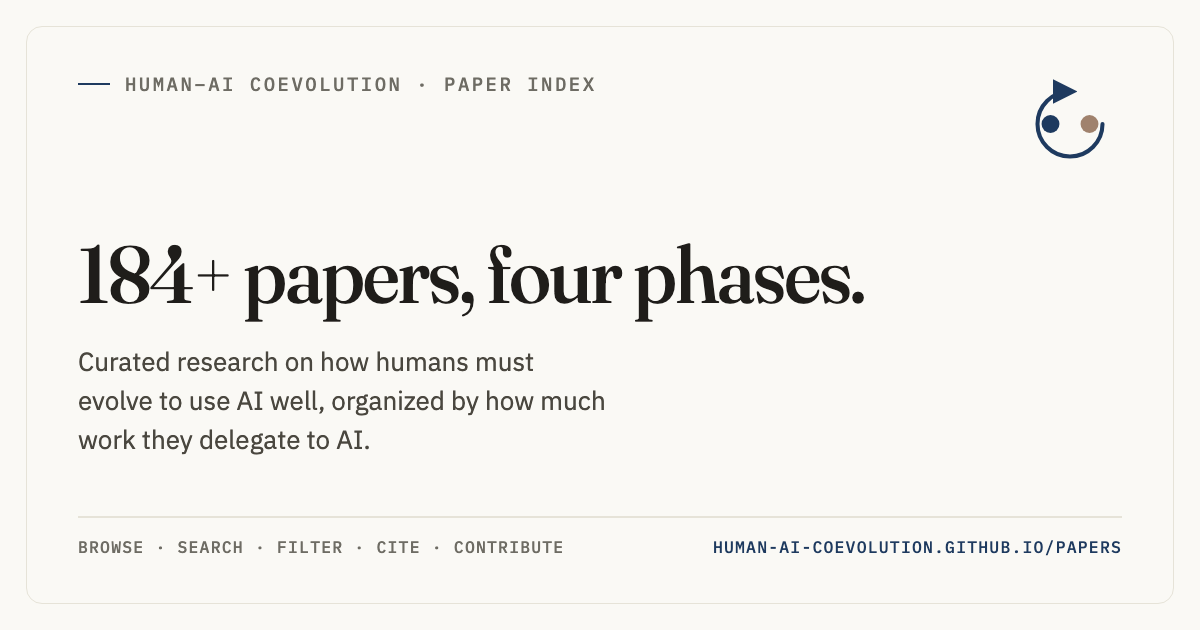
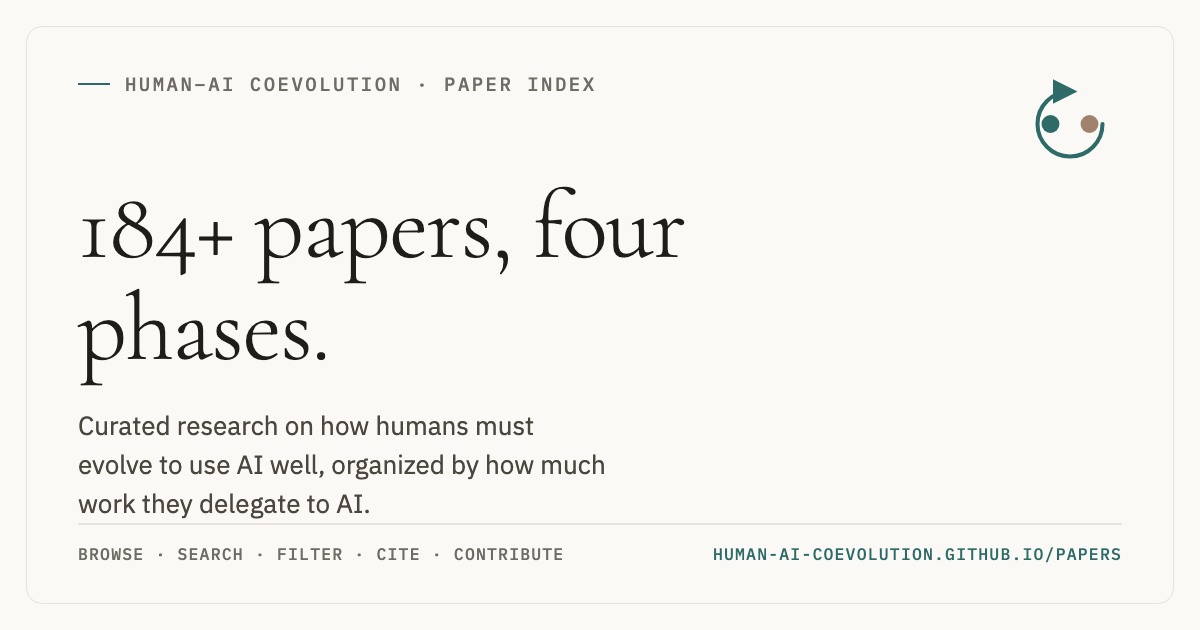
Restyle: desaturated teal accent + Cormorant Garamond display serif
Refreshes the visual identity toward an airier editorial style
(à la zaraintokyo.com) and ties it to the CHATS lab.

- Accent: deep navy → a desaturated teal (#2e6b68 / #76bdb6 dark)
  drawn from the CHATS lab logo. Single accent, applied site-wide
  via the `accent` token — links, eyebrows, badges, favicon, the
  Stats charts (phase palette, treemap progression, donuts).
- Display serif: Fraunces → Cormorant Garamond, a delicate
  high-contrast face set light at large sizes. Display tiers
  rescaled (Cormorant runs small) with near-zero tracking and
  lining numerals.
- Footer: added an "Affiliated lab" credit with the CHATS logo
  linking to the group page.
- Hero: "v1 · 2026" → "2026 edition" (a serif "v1" reads as "VI").
- Regenerated og.png / og-papers.png in the new teal + serif style.

Changed region(s): [[0.0617, 0.3016, 0.74, 0.754], [0.0617, 0.7841, 0.925, 0.9048], [0.8633, 0.1206, 0.925, 0.2714]]

diff --git a/site/src/islands/StatsCharts.tsx b/site/src/islands/StatsCharts.tsx
@@ -22,14 +22,14 @@ function paperColors() {
         text: '#e9e6df',
         muted: '#9a978d',
         faint: 'rgba(255,255,255,0.04)',
-        bar: '#7c9ec9',                 // navy on dark
-        barAlt: '#a5bdd4',
-        line: '#7c9ec9',
+        bar: '#76bdb6',                 // teal on dark
+        barAlt: '#9ecdc8',
+        line: '#76bdb6',
         // Primary axis — five phase bands. We collapse emerging-phase-N
         // into the corresponding main phase for the stacked area / donut
         // so the visual story stays legible.
         phaseColors: {
-          'phase-1':   '#7c9ec9',   // navy — Tool
+          'phase-1':   '#76bdb6',   // teal — Tool
           'phase-2':   '#cdb89f',   // brass — Assistant
           'phase-3':   '#9ab0a0',   // olive — Executor
           'phase-4':   '#b89a78',   // bronze — Organization (currently empty)
@@ -38,14 +38,14 @@ function paperColors() {
         // Secondary axis — five theme categories. Slightly desaturated
         // so they don't compete with the phase palette.
         envColors: {
-          'Collaboration & Co-Creation': '#7c9ec9',
+          'Collaboration & Co-Creation': '#76bdb6',
           'Mutual Adaptation': '#cdb89f',
           'Human Feedback Loops': '#9ab0a0',
           'Longitudinal HCI Studies': '#b89a78',
           'Position & Survey': '#a8a8b8',
         } as Record<string, string>,
-        donut: ['#7c9ec9', '#cdb89f', '#9ab0a0', '#b89a78', '#a8a8b8'],
-        treemapTones: ['#283a52', '#2f4258', '#374b5f', '#3f5466', '#475d6d', '#506674', '#586f7a', '#617881'],
+        donut: ['#76bdb6', '#cdb89f', '#9ab0a0', '#b89a78', '#a8a8b8'],
+        treemapTones: ['#234e4b', '#2c5754', '#35605d', '#3e6966', '#47716e', '#507a77', '#56827f', '#5f8b87'],
         cardBorder: 'rgba(233,230,223,0.08)',
         tooltipBg: '#171b23',
         tooltipBorder: 'rgba(255,255,255,0.08)',
@@ -55,26 +55,26 @@ function paperColors() {
         text: '#2f2d28',
         muted: '#6e6c64',
         faint: 'rgba(0,0,0,0.04)',
-        bar: '#1e3a5f',
-        barAlt: '#516b85',
-        line: '#1e3a5f',
-        phaseColors: {                 // navy + brass + olive + bronze family
-          'phase-1':   '#1e3a5f',
+        bar: '#2e6b68',
+        barAlt: '#5f928e',
+        line: '#2e6b68',
+        phaseColors: {                 // teal + brass + olive + bronze family
+          'phase-1':   '#2e6b68',
           'phase-2':   '#a0826d',
           'phase-3':   '#5b7461',
           'phase-4':   '#7d5e47',
           'framework': '#6b6b87',
         } as Record<string, string>,
         envColors: {
-          'Collaboration & Co-Creation': '#1e3a5f',
+          'Collaboration & Co-Creation': '#2e6b68',
           'Mutual Adaptation': '#a0826d',
           'Human Feedback Loops': '#5b7461',
           'Longitudinal HCI Studies': '#7d5e47',
           'Position & Survey': '#6b6b87',
         } as Record<string, string>,
-        donut: ['#1e3a5f', '#a0826d', '#5b7461', '#7d5e47', '#6b6b87'],
-        // single-hue navy treemap progression
-        treemapTones: ['#1e3a5f', '#2a466b', '#365176', '#425d82', '#4f6a8d', '#5b7799', '#6884a4', '#7591b0'],
+        donut: ['#2e6b68', '#a0826d', '#5b7461', '#7d5e47', '#6b6b87'],
+        // single-hue teal treemap progression
+        treemapTones: ['#2e6b68', '#3d7774', '#4c8380', '#5b8f8c', '#699a97', '#78a6a3', '#87b2af', '#96beba'],
         cardBorder: 'rgba(31,29,26,0.08)',
         tooltipBg: '#faf9f5',
         tooltipBorder: 'rgba(31,29,26,0.12)',

diff --git a/site/src/styles/global.css b/site/src/styles/global.css
@@ -1,6 +1,9 @@
-/* Webfonts — variable Fraunces (opsz axis) + IBM Plex Sans/Mono */
-@import "@fontsource-variable/fraunces/index.css";
-@import "@fontsource-variable/fraunces/opsz-italic.css";
+/* Webfonts — Cormorant Garamond (display serif) + IBM Plex Sans/Mono */
+@import "@fontsource/cormorant-garamond/300.css";
+@import "@fontsource/cormorant-garamond/400.css";
+@import "@fontsource/cormorant-garamond/500.css";
+@import "@fontsource/cormorant-garamond/300-italic.css";
+@import "@fontsource/cormorant-garamond/400-italic.css";
 @import "@fontsource/ibm-plex-sans/400.css";
 @import "@fontsource/ibm-plex-sans/500.css";
 @import "@fontsource/ibm-plex-sans/600.css";
@@ -14,7 +17,7 @@
 
 :root {
   color-scheme: light;
-  --font-display: 'Fraunces Variable', ui-serif, 'Iowan Old Style', Charter, Georgia, serif;
+  --font-display: 'Cormorant Garamond', ui-serif, 'Iowan Old Style', Charter, Georgia, serif;
   --font-sans: 'IBM Plex Sans', ui-sans-serif, system-ui, sans-serif;
   --font-mono: 'IBM Plex Mono', ui-monospace, Menlo, monospace;
 }
@@ -40,29 +43,34 @@ html.dark, html.dark body {
 
 /* ─── Display typography ────────────────────────────── */
 
+/* Cormorant Garamond is a delicate, small-x-height face — it carries a
+   light weight beautifully at display sizes and wants near-zero tracking,
+   so each tier is set a step larger than a Fraunces equivalent would be. */
 .font-display,
 .kicker,
 .kicker-lg,
 .kicker-xl {
   font-family: var(--font-display);
-  font-feature-settings: 'ss01';
   font-weight: 500;
-  letter-spacing: -0.018em;
+  letter-spacing: 0;
+  font-variant-numeric: lining-nums;
 }
 .kicker-xl {
-  font-size: clamp(2.4rem, 5vw, 3.6rem);
-  line-height: 1.04;
-  letter-spacing: -0.024em;
-}
-.kicker-lg {
-  font-size: clamp(1.6rem, 3.3vw, 2.1rem);
-  line-height: 1.14;
+  font-size: clamp(2.9rem, 6vw, 4.6rem);
+  line-height: 1.06;
+  font-weight: 300;
   letter-spacing: -0.012em;
 }
+.kicker-lg {
+  font-size: clamp(1.95rem, 3.9vw, 2.7rem);
+  line-height: 1.12;
+  font-weight: 400;
+  letter-spacing: -0.005em;
+}
 .kicker {
-  font-size: clamp(1.15rem, 2.2vw, 1.4rem);
-  line-height: 1.22;
-  letter-spacing: -0.008em;
+  font-size: clamp(1.35rem, 2.5vw, 1.62rem);
+  line-height: 1.2;
+  font-weight: 500;
 }
 
 .tabular-nums { font-feature-settings: 'tnum' 1, 'lnum' 1; }
@@ -270,8 +278,8 @@ html.dark .hairline { background: theme('colors.ink.600'); }
 }
 
 /* Copy-success pulse */
-:global(html.dark) .copy-glow-source { --glow: rgba(124, 158, 201, 0.22); }
-.copy-glow-source { --glow: rgba(30, 58, 95, 0.16); }
+:global(html.dark) .copy-glow-source { --glow: rgba(118, 189, 182, 0.24); }
+.copy-glow-source { --glow: rgba(46, 107, 104, 0.16); }
 @keyframes copy-glow-var {
   0%   { box-shadow: 0 0 0 0 rgba(0, 0, 0, 0); }
   30%  { box-shadow: 0 0 0 6px var(--glow); }
